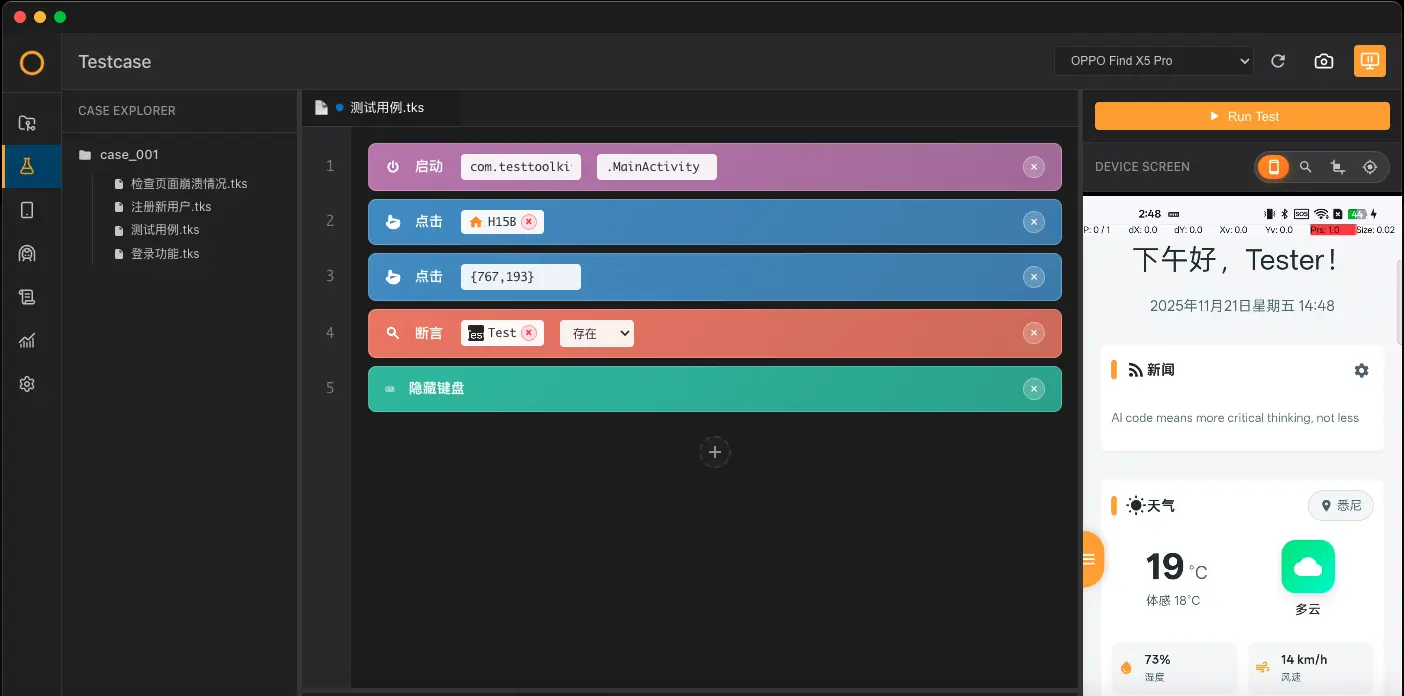
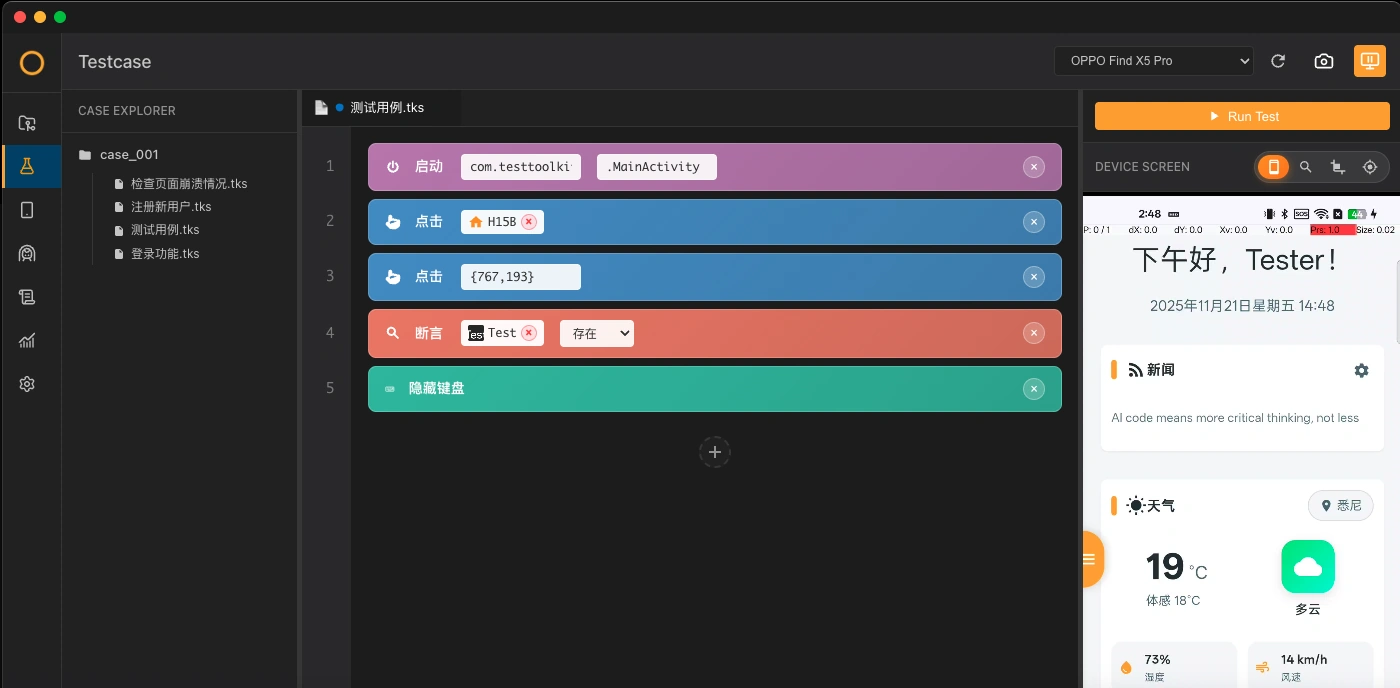
Web: update log page navbar and product display image display

diff --git a/website/release-notes.html b/website/release-notes.html
@@ -24,11 +24,11 @@
             position: fixed;
             top: 0;
             width: 100%;
-            background: rgba(13, 13, 13, 0.95);
-            backdrop-filter: blur(20px);
-            -webkit-backdrop-filter: blur(20px);
+            background: rgba(13, 13, 13, 0.7);
+            backdrop-filter: blur(20px) saturate(180%);
+            -webkit-backdrop-filter: blur(20px) saturate(180%);
             z-index: 1000;
-            border-bottom: 1px solid rgba(255, 255, 255, 0.1);
+            border-bottom: 1px solid rgba(255, 255, 255, 0.08);
         }
 
         .nav-container {
@@ -53,9 +53,32 @@
 
         .logo-text {
             font-size: 20px;
-            font-weight: 600;
-            color: #f0f0f0;
+            font-weight: 700;
             letter-spacing: -0.5px;
+            background: linear-gradient(180deg, #ffffff 0%, #999999 100%);
+            -webkit-background-clip: text;
+            -webkit-text-fill-color: transparent;
+            background-clip: text;
+            transition: opacity 0.3s;
+        }
+
+        .nav-left a {
+            display: flex;
+            align-items: center;
+            text-decoration: none;
+            gap: 16px;
+        }
+
+        .nav-left a:hover .logo-text {
+            opacity: 0.8;
+        }
+
+        .nav-left a:hover .logo {
+            opacity: 0.8;
+        }
+
+        .logo {
+            transition: opacity 0.3s;
         }
 
         .nav-links {
@@ -372,8 +395,10 @@
     <nav>
         <div class="nav-container">
             <div class="nav-left">
-                <img src="toolkit_studio_logo.png" alt="Toolkit Studio" class="logo">
-                <span class="logo-text">Toolkit</span>
+                <a href="index.html">
+                    <img src="toolkit_studio_logo.png" alt="Toolkit Studio" class="logo">
+                    <span class="logo-text">Toolkit Studio</span>
+                </a>
             </div>
             <button class="hamburger" id="hamburger" aria-label="菜单">
                 <span></span>
